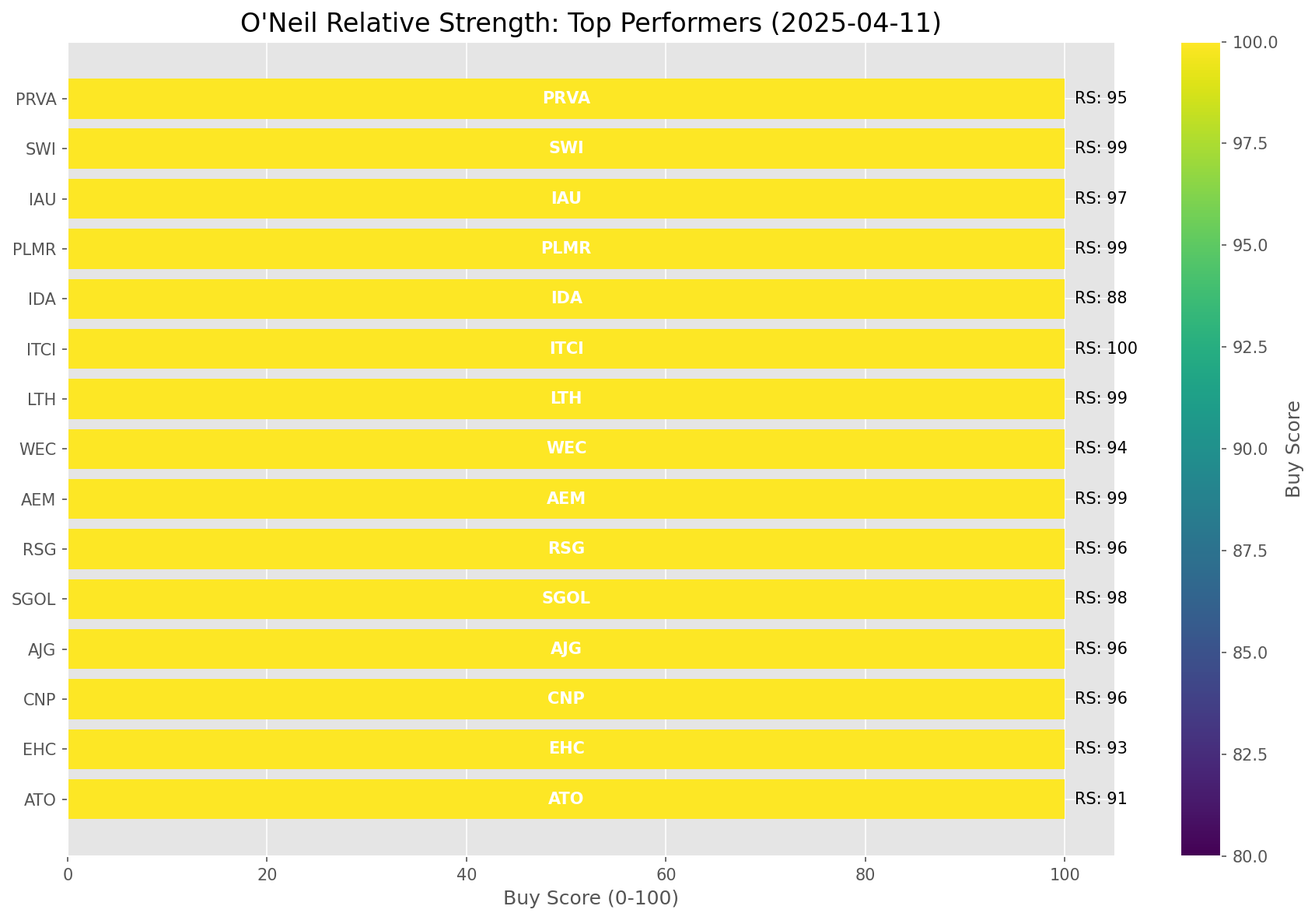
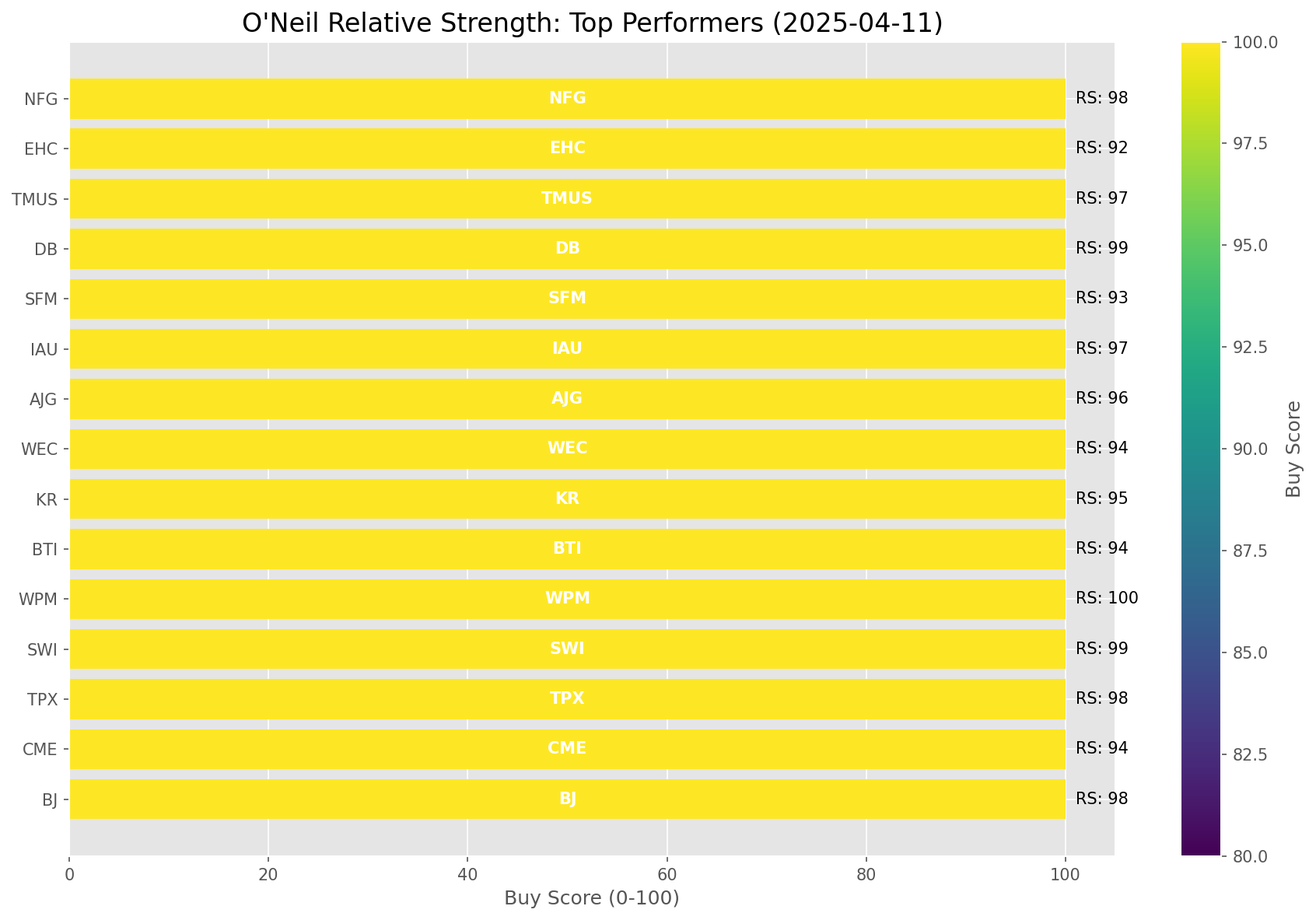
Add market report for 2025-04-11

diff --git a/oneil_relative_strength_report_2025-04-11.md b/oneil_relative_strength_report_2025-04-11.md
@@ -9,11 +9,11 @@
 | Metric | Value |
 |--------|-------|
 | **Market Valuation** | **Significantly Undervalued** |
-| **Current Ratio** | 8.80 |
+| **Current Ratio** | 8.81 |
 | **Historical Mean** | 9.69 |
 | **Standard Deviation** | 0.44 |
 | **Z-Score (StdDev from Mean)** | -2.33 |
-| **Total Market Cap** | $261.58 trillion |
+| **Total Market Cap** | $261.74 trillion |
 | **GDP** | $29.72 trillion |
 
 ## **Market Insights**
@@ -49,41 +49,41 @@ Based on William O'Neil's Relative Strength Methodology
 
 | ETF | Strength | RS Rating | Performance | Above Key MAs | Trend | Sector |
 |-----|----------|-----------|-------------|--------------|-------|--------|
-| [GLD](https://www.tradingview.com/chart/?symbol=GLD) | 98.5 | 97.0 | 21.08% | 10d ✓, 50d ✓, 200d ✓ | ↗ | Gold |
-| [SLV](https://www.tradingview.com/chart/?symbol=SLV) | 84.6 | 89.0 | 6.99% | 10d ✓, 50d ✗, 200d ✓ | ↗ | Silver |
-| [XLP](https://www.tradingview.com/chart/?symbol=XLP) | 82.6 | 85.0 | 3.98% | 10d ✓, 50d ✗, 200d ✓ | ↗ | Consumer Staples |
-| [DBA](https://www.tradingview.com/chart/?symbol=DBA) | 77.1 | 74.0 | -0.75% | 10d ✓, 50d ✗, 200d ✓ | ↗ | Agriculture |
-| [CIBR](https://www.tradingview.com/chart/?symbol=CIBR) | 75.1 | 70.0 | -2.60% | 10d ✓, 50d ✗, 200d ✓ | ↗ | Cybersecurity |
-| [KWEB](https://www.tradingview.com/chart/?symbol=KWEB) | 65.0 | 90.0 | 8.19% | 10d ✗, 50d ✗, 200d ✗ | ↗ | Chinese Internet |
-| [IYZ](https://www.tradingview.com/chart/?symbol=IYZ) | 63.7 | 67.0 | -3.94% | 10d ✗, 50d ✗, 200d ✓ | ↗ | Telecommunications |
-| [XLI](https://www.tradingview.com/chart/?symbol=XLI) | 60.9 | 62.0 | -5.35% | 10d ✓, 50d ✗, 200d ✗ | ↗ | Industrial |
-| [XLU](https://www.tradingview.com/chart/?symbol=XLU) | 59.5 | 79.0 | 0.55% | 10d ✗, 50d ✗, 200d ✗ | ↗ | Utilities |
-| [PAVE](https://www.tradingview.com/chart/?symbol=PAVE) | 53.9 | 48.0 | -10.51% | 10d ✓, 50d ✗, 200d ✗ | ↗ | Infrastructure |
-| [IYR](https://www.tradingview.com/chart/?symbol=IYR) | 53.5 | 67.0 | -3.54% | 10d ✗, 50d ✗, 200d ✗ | ↗ | Real Estate |
-| [XLF](https://www.tradingview.com/chart/?symbol=XLF) | 53.5 | 67.0 | -3.61% | 10d ✗, 50d ✗, 200d ✗ | ↗ | Financial |
-| [XLC](https://www.tradingview.com/chart/?symbol=XLC) | 50.5 | 61.0 | -6.07% | 10d ✗, 50d ✗, 200d ✗ | ↗ | Communications |
-| [ARKF](https://www.tradingview.com/chart/?symbol=ARKF) | 49.4 | 39.0 | -14.42% | 10d ✓, 50d ✗, 200d ✗ | ↗ | Fintech Innovation |
-| [UUP](https://www.tradingview.com/chart/?symbol=UUP) | 48.5 | 57.0 | -7.24% | 10d ✗, 50d ✗, 200d ✗ | ↗ | U.S. Dollar |
-| [BIL](https://www.tradingview.com/chart/?symbol=BIL) | 48.4 | 77.0 | 0.04% | 10d ✓, 50d ✗, 200d ✗ | ↘ | Short-term Treasuries |
-| [XLK](https://www.tradingview.com/chart/?symbol=XLK) | 48.4 | 37.0 | -15.21% | 10d ✓, 50d ✗, 200d ✗ | ↗ | Technology |
-| [BLOK](https://www.tradingview.com/chart/?symbol=BLOK) | 44.9 | 30.0 | -18.42% | 10d ✓, 50d ✗, 200d ✗ | ↗ | Blockchain & Cryptocurrency |
-| [ICLN](https://www.tradingview.com/chart/?symbol=ICLN) | 44.9 | 70.0 | -2.39% | 10d ✓, 50d ✗, 200d ✗ | ↘ | Clean Energy |
-| [ARKW](https://www.tradingview.com/chart/?symbol=ARKW) | 42.9 | 26.0 | -20.39% | 10d ✓, 50d ✗, 200d ✗ | ↗ | Next Generation Internet |
-| [AIQ](https://www.tradingview.com/chart/?symbol=AIQ) | 42.5 | 45.0 | -11.61% | 10d ✗, 50d ✗, 200d ✗ | ↗ | Artificial Intelligence & Technology |
-| [ARKK](https://www.tradingview.com/chart/?symbol=ARKK) | 40.4 | 21.0 | -22.60% | 10d ✓, 50d ✗, 200d ✗ | ↗ | Innovation |
-| [TLT](https://www.tradingview.com/chart/?symbol=TLT) | 40.0 | 80.0 | 0.84% | 10d ✗, 50d ✗, 200d ✗ | ↘ | Long-term Treasuries |
+| [GLD](https://www.tradingview.com/chart/?symbol=GLD) | 98.5 | 97.0 | 21.18% | 10d ✓, 50d ✓, 200d ✓ | ↗ | Gold |
+| [SLV](https://www.tradingview.com/chart/?symbol=SLV) | 84.1 | 88.0 | 6.53% | 10d ✓, 50d ✗, 200d ✓ | ↗ | Silver |
+| [XLP](https://www.tradingview.com/chart/?symbol=XLP) | 82.6 | 85.0 | 3.84% | 10d ✓, 50d ✗, 200d ✓ | ↗ | Consumer Staples |
+| [DBA](https://www.tradingview.com/chart/?symbol=DBA) | 77.1 | 74.0 | -0.72% | 10d ✓, 50d ✗, 200d ✓ | ↗ | Agriculture |
+| [CIBR](https://www.tradingview.com/chart/?symbol=CIBR) | 75.1 | 70.0 | -2.49% | 10d ✓, 50d ✗, 200d ✓ | ↗ | Cybersecurity |
+| [KWEB](https://www.tradingview.com/chart/?symbol=KWEB) | 65.0 | 90.0 | 8.26% | 10d ✗, 50d ✗, 200d ✗ | ↗ | Chinese Internet |
+| [IYZ](https://www.tradingview.com/chart/?symbol=IYZ) | 63.2 | 66.0 | -4.12% | 10d ✗, 50d ✗, 200d ✓ | ↗ | Telecommunications |
+| [XLI](https://www.tradingview.com/chart/?symbol=XLI) | 60.9 | 62.0 | -5.38% | 10d ✓, 50d ✗, 200d ✗ | ↗ | Industrial |
+| [XLU](https://www.tradingview.com/chart/?symbol=XLU) | 59.0 | 78.0 | 0.41% | 10d ✗, 50d ✗, 200d ✗ | ↗ | Utilities |
+| [IYR](https://www.tradingview.com/chart/?symbol=IYR) | 54.0 | 68.0 | -3.40% | 10d ✗, 50d ✗, 200d ✗ | ↗ | Real Estate |
+| [PAVE](https://www.tradingview.com/chart/?symbol=PAVE) | 53.9 | 48.0 | -10.56% | 10d ✓, 50d ✗, 200d ✗ | ↗ | Infrastructure |
+| [XLF](https://www.tradingview.com/chart/?symbol=XLF) | 53.5 | 67.0 | -3.75% | 10d ✗, 50d ✗, 200d ✗ | ↗ | Financial |
+| [XLC](https://www.tradingview.com/chart/?symbol=XLC) | 50.0 | 60.0 | -6.16% | 10d ✗, 50d ✗, 200d ✗ | ↗ | Communications |
+| [ARKF](https://www.tradingview.com/chart/?symbol=ARKF) | 49.4 | 39.0 | -14.34% | 10d ✓, 50d ✗, 200d ✗ | ↗ | Fintech Innovation |
+| [UUP](https://www.tradingview.com/chart/?symbol=UUP) | 48.5 | 57.0 | -7.29% | 10d ✗, 50d ✗, 200d ✗ | ↗ | U.S. Dollar |
+| [XLK](https://www.tradingview.com/chart/?symbol=XLK) | 48.4 | 37.0 | -15.19% | 10d ✓, 50d ✗, 200d ✗ | ↗ | Technology |
+| [BIL](https://www.tradingview.com/chart/?symbol=BIL) | 48.4 | 77.0 | 0.05% | 10d ✓, 50d ✗, 200d ✗ | ↘ | Short-term Treasuries |
+| [ICLN](https://www.tradingview.com/chart/?symbol=ICLN) | 45.4 | 71.0 | -2.08% | 10d ✓, 50d ✗, 200d ✗ | ↘ | Clean Energy |
+| [BLOK](https://www.tradingview.com/chart/?symbol=BLOK) | 44.9 | 30.0 | -18.28% | 10d ✓, 50d ✗, 200d ✗ | ↗ | Blockchain & Cryptocurrency |
+| [AIQ](https://www.tradingview.com/chart/?symbol=AIQ) | 43.0 | 46.0 | -11.49% | 10d ✗, 50d ✗, 200d ✗ | ↗ | Artificial Intelligence & Technology |
+| [ARKW](https://www.tradingview.com/chart/?symbol=ARKW) | 42.9 | 26.0 | -20.30% | 10d ✓, 50d ✗, 200d ✗ | ↗ | Next Generation Internet |
+| [ARKK](https://www.tradingview.com/chart/?symbol=ARKK) | 40.9 | 22.0 | -22.15% | 10d ✓, 50d ✗, 200d ✗ | ↗ | Innovation |
+| [TLT](https://www.tradingview.com/chart/?symbol=TLT) | 40.0 | 80.0 | 1.00% | 10d ✗, 50d ✗, 200d ✗ | ↘ | Long-term Treasuries |
 | [IYT](https://www.tradingview.com/chart/?symbol=IYT) | 39.0 | 38.0 | -14.51% | 10d ✗, 50d ✗, 200d ✗ | ↗ | Transportation |
-| [XLY](https://www.tradingview.com/chart/?symbol=XLY) | 38.5 | 37.0 | -15.11% | 10d ✗, 50d ✗, 200d ✗ | ↗ | Consumer Discretionary |
-| [XLV](https://www.tradingview.com/chart/?symbol=XLV) | 35.0 | 70.0 | -2.31% | 10d ✗, 50d ✗, 200d ✗ | ↘ | Healthcare |
-| [DBC](https://www.tradingview.com/chart/?symbol=DBC) | 34.5 | 69.0 | -2.90% | 10d ✗, 50d ✗, 200d ✗ | ↘ | Commodities |
-| [XLB](https://www.tradingview.com/chart/?symbol=XLB) | 33.0 | 66.0 | -4.02% | 10d ✗, 50d ✗, 200d ✗ | ↘ | Materials |
-| [JETS](https://www.tradingview.com/chart/?symbol=JETS) | 28.5 | 17.0 | -26.43% | 10d ✗, 50d ✗, 200d ✗ | ↗ | Airlines |
-| [XLE](https://www.tradingview.com/chart/?symbol=XLE) | 25.0 | 50.0 | -9.91% | 10d ✗, 50d ✗, 200d ✗ | ↘ | Energy |
-| [URA](https://www.tradingview.com/chart/?symbol=URA) | 24.9 | 30.0 | -18.43% | 10d ✓, 50d ✗, 200d ✗ | ↘ | Uranium |
-| [ARKG](https://www.tradingview.com/chart/?symbol=ARKG) | 24.4 | 29.0 | -18.91% | 10d ✓, 50d ✗, 200d ✗ | ↘ | Genomics |
-| [IBB](https://www.tradingview.com/chart/?symbol=IBB) | 20.5 | 41.0 | -13.33% | 10d ✗, 50d ✗, 200d ✗ | ↘ | Biotechnology |
-| [ITB](https://www.tradingview.com/chart/?symbol=ITB) | 20.0 | 40.0 | -13.59% | 10d ✗, 50d ✗, 200d ✗ | ↘ | Home Construction |
-| [SOXX](https://www.tradingview.com/chart/?symbol=SOXX) | 10.5 | 21.0 | -22.90% | 10d ✗, 50d ✗, 200d ✗ | ↘ | Semiconductors |
+| [XLY](https://www.tradingview.com/chart/?symbol=XLY) | 38.5 | 37.0 | -14.93% | 10d ✗, 50d ✗, 200d ✗ | ↗ | Consumer Discretionary |
+| [XLV](https://www.tradingview.com/chart/?symbol=XLV) | 35.0 | 70.0 | -2.54% | 10d ✗, 50d ✗, 200d ✗ | ↘ | Healthcare |
+| [DBC](https://www.tradingview.com/chart/?symbol=DBC) | 34.5 | 69.0 | -3.01% | 10d ✗, 50d ✗, 200d ✗ | ↘ | Commodities |
+| [XLB](https://www.tradingview.com/chart/?symbol=XLB) | 32.5 | 65.0 | -4.35% | 10d ✗, 50d ✗, 200d ✗ | ↘ | Materials |
+| [JETS](https://www.tradingview.com/chart/?symbol=JETS) | 28.5 | 17.0 | -25.92% | 10d ✗, 50d ✗, 200d ✗ | ↗ | Airlines |
+| [ARKG](https://www.tradingview.com/chart/?symbol=ARKG) | 25.4 | 31.0 | -17.76% | 10d ✓, 50d ✗, 200d ✗ | ↘ | Genomics |
+| [XLE](https://www.tradingview.com/chart/?symbol=XLE) | 24.5 | 49.0 | -10.38% | 10d ✗, 50d ✗, 200d ✗ | ↘ | Energy |
+| [URA](https://www.tradingview.com/chart/?symbol=URA) | 24.4 | 29.0 | -18.64% | 10d ✓, 50d ✗, 200d ✗ | ↘ | Uranium |
+| [IBB](https://www.tradingview.com/chart/?symbol=IBB) | 20.5 | 41.0 | -13.25% | 10d ✗, 50d ✗, 200d ✗ | ↘ | Biotechnology |
+| [ITB](https://www.tradingview.com/chart/?symbol=ITB) | 20.5 | 41.0 | -13.17% | 10d ✗, 50d ✗, 200d ✗ | ↘ | Home Construction |
+| [SOXX](https://www.tradingview.com/chart/?symbol=SOXX) | 10.5 | 21.0 | -22.94% | 10d ✗, 50d ✗, 200d ✗ | ↘ | Semiconductors |
 
 ### **Sector ETF Performance Interpretation**
 
@@ -100,7 +100,7 @@ This table shows the relative strength metrics for different market sectors base
 
 The current market leadership is coming from the following sectors: **Gold, Silver, Consumer Staples**.
 
-The **Gold** sector (represented by **GLD**) is showing particularly strong relative strength with an RS rating of 97.0 and performance of 21.08% vs. the S&P 500. This sector is trading above its 10-day, 50-day, 200-day moving average(s). Investors should consider focusing on high RS stocks within these leading sectors for potential outperformance.
+The **Gold** sector (represented by **GLD**) is showing particularly strong relative strength with an RS rating of 97.0 and performance of 21.18% vs. the S&P 500. This sector is trading above its 10-day, 50-day, 200-day moving average(s). Investors should consider focusing on high RS stocks within these leading sectors for potential outperformance.
 
 ---
 
@@ -110,138 +110,134 @@ The following 75 stocks show exceptional relative strength:
 
 | RS Rating | Buy Score | Current Price | Chart | Name | Ticker |
 |-----------|-----------|---------------|-------|------|--------|
-| 100 | 100 | $82.82 | [Chart](https://www.tradingview.com/chart/?symbol=WPM) | Wheaton Precious Metals Corp. Common Stock | WPM |
-| 100 | 100 | $29.37 | [Chart](https://www.tradingview.com/chart/?symbol=AGI) | Alamos Gold Inc. Class A Common Shares | AGI |
-| 99 | 100 | $118.07 | [Chart](https://www.tradingview.com/chart/?symbol=AEM) | Agnico Eagle Mines Ltd. | AEM |
-| 99 | 100 | $31.05 | [Chart](https://www.tradingview.com/chart/?symbol=LTH) | Life Time Group Holdings, Inc. | LTH |
-| 99 | 100 | $146.89 | [Chart](https://www.tradingview.com/chart/?symbol=PLMR) | Palomar Holdings, Inc. Common stock | PLMR |
+| 100 | 100 | $82.13 | [Chart](https://www.tradingview.com/chart/?symbol=WPM) | Wheaton Precious Metals Corp. Common Stock | WPM |
+| 100 | 100 | $147.88 | [Chart](https://www.tradingview.com/chart/?symbol=PLMR) | Palomar Holdings, Inc. Common stock | PLMR |
+| 100 | 100 | $29.22 | [Chart](https://www.tradingview.com/chart/?symbol=AGI) | Alamos Gold Inc. Class A Common Shares | AGI |
 | 99 | 100 | $18.48 | [Chart](https://www.tradingview.com/chart/?symbol=SWI) | SolarWinds Corporation Common Stock | SWI |
+| 99 | 100 | $22.42 | [Chart](https://www.tradingview.com/chart/?symbol=DB) | Deutsche Bank Aktiengesellschaft | DB |
+| 99 | 100 | $117.65 | [Chart](https://www.tradingview.com/chart/?symbol=AEM) | Agnico Eagle Mines Ltd. | AEM |
+| 99 | 100 | $31.23 | [Chart](https://www.tradingview.com/chart/?symbol=LTH) | Life Time Group Holdings, Inc. | LTH |
+| 99 | 100 | $61.22 | [Chart](https://www.tradingview.com/chart/?symbol=GDXJ) | VanEck Junior Gold Miners ETF | GDXJ |
 | 99 | 100 | $135.87 | [Chart](https://www.tradingview.com/chart/?symbol=UGL) | ProShares Ultra Gold | UGL |
-| 99 | 100 | $61.43 | [Chart](https://www.tradingview.com/chart/?symbol=GDXJ) | VanEck Junior Gold Miners ETF | GDXJ |
-| 99 | 100 | $22.39 | [Chart](https://www.tradingview.com/chart/?symbol=DB) | Deutsche Bank Aktiengesellschaft | DB |
-| 99 | 100 | $180.90 | [Chart](https://www.tradingview.com/chart/?symbol=RGLD) | Royal Gold Inc | RGLD |
-| 99 | 100 | $15.63 | [Chart](https://www.tradingview.com/chart/?symbol=EZPW) | Ezcorp Inc | EZPW |
-| 98 | 100 | $30.80 | [Chart](https://www.tradingview.com/chart/?symbol=SGOL) | abrdn Physical Gold Shares ETF | SGOL |
-| 98 | 100 | $32.20 | [Chart](https://www.tradingview.com/chart/?symbol=IAUM) | iShares Gold Trust Micro | IAUM |
-| 98 | 100 | $63.95 | [Chart](https://www.tradingview.com/chart/?symbol=GLDM) | SPDR Gold MiniShares | GLDM |
-| 98 | 100 | $116.70 | [Chart](https://www.tradingview.com/chart/?symbol=BJ) | BJs Wholesale Club Holdings, Inc. Common Stock | BJ |
-| 98 | 100 | $76.77 | [Chart](https://www.tradingview.com/chart/?symbol=NFG) | National Fuel Gas Co. | NFG |
-| 98 | 100 | $22.50 | [Chart](https://www.tradingview.com/chart/?symbol=SRAD) | Sportradar Group AG Class A Ordinary Shares | SRAD |
-| 97 | 100 | $60.91 | [Chart](https://www.tradingview.com/chart/?symbol=IAU) | iShares Gold Trust | IAU |
-| 97 | 100 | $31.86 | [Chart](https://www.tradingview.com/chart/?symbol=BAR) | GraniteShares Gold Shares | BAR |
-| 97 | 100 | $297.68 | [Chart](https://www.tradingview.com/chart/?symbol=GLD) | SPDR Gold Trust, SPDR Gold Shares | GLD |
-| 97 | 100 | $31.14 | [Chart](https://www.tradingview.com/chart/?symbol=OUNZ) | VanEck Merk Gold ETF | OUNZ |
+| 99 | 100 | $15.66 | [Chart](https://www.tradingview.com/chart/?symbol=EZPW) | Ezcorp Inc | EZPW |
+| 99 | 100 | $179.58 | [Chart](https://www.tradingview.com/chart/?symbol=RGLD) | Royal Gold Inc | RGLD |
+| 98 | 100 | $117.36 | [Chart](https://www.tradingview.com/chart/?symbol=BJ) | BJs Wholesale Club Holdings, Inc. Common Stock | BJ |
+| 98 | 100 | $76.46 | [Chart](https://www.tradingview.com/chart/?symbol=NFG) | National Fuel Gas Co. | NFG |
+| 98 | 100 | $24.82 | [Chart](https://www.tradingview.com/chart/?symbol=PHYS) | Sprott Physical Gold Trust | PHYS |
+| 98 | 100 | $32.23 | [Chart](https://www.tradingview.com/chart/?symbol=IAUM) | iShares Gold Trust Micro | IAUM |
+| 98 | 100 | $64.01 | [Chart](https://www.tradingview.com/chart/?symbol=GLDM) | SPDR Gold MiniShares | GLDM |
+| 98 | 100 | $22.57 | [Chart](https://www.tradingview.com/chart/?symbol=SRAD) | Sportradar Group AG Class A Ordinary Shares | SRAD |
+| 97 | 100 | $60.96 | [Chart](https://www.tradingview.com/chart/?symbol=IAU) | iShares Gold Trust | IAU |
+| 97 | 100 | $258.67 | [Chart](https://www.tradingview.com/chart/?symbol=TMUS) | T-Mobile US, Inc. | TMUS |
+| 97 | 100 | $30.82 | [Chart](https://www.tradingview.com/chart/?symbol=SGOL) | abrdn Physical Gold Shares ETF | SGOL |
+| 97 | 100 | $297.93 | [Chart](https://www.tradingview.com/chart/?symbol=GLD) | SPDR Gold Trust, SPDR Gold Shares | GLD |
+| 97 | 100 | $31.87 | [Chart](https://www.tradingview.com/chart/?symbol=BAR) | GraniteShares Gold Shares | BAR |
 | 97 | 100 | $22.40 | [Chart](https://www.tradingview.com/chart/?symbol=OR) | Osisko Gold Royalties Ltd | OR |
-| 97 | 100 | $45.98 | [Chart](https://www.tradingview.com/chart/?symbol=EXC) | Exelon Corporation | EXC |
-| 97 | 100 | $24.79 | [Chart](https://www.tradingview.com/chart/?symbol=PHYS) | Sprott Physical Gold Trust | PHYS |
-| 97 | 100 | $72.80 | [Chart](https://www.tradingview.com/chart/?symbol=RYAN) | Ryan Specialty Holdings, Inc. | RYAN |
-| 97 | 100 | $259.00 | [Chart](https://www.tradingview.com/chart/?symbol=TMUS) | T-Mobile US, Inc. | TMUS |
-| 96 | 100 | $36.47 | [Chart](https://www.tradingview.com/chart/?symbol=CNP) | CenterPoint Energy, Inc. | CNP |
-| 96 | 100 | $333.91 | [Chart](https://www.tradingview.com/chart/?symbol=AJG) | Arthur J. Gallagher & Co. | AJG |
-| 96 | 100 | $243.07 | [Chart](https://www.tradingview.com/chart/?symbol=RSG) | Republic Services Inc. | RSG |
-| 95 | 100 | $24.07 | [Chart](https://www.tradingview.com/chart/?symbol=PRVA) | Privia Health Group, Inc. Common Stock | PRVA |
-| 95 | 100 | $52.89 | [Chart](https://www.tradingview.com/chart/?symbol=PPC) | Pilgrims Pride Corporation | PPC |
-| 95 | 100 | $27.43 | [Chart](https://www.tradingview.com/chart/?symbol=EUFN) | iShares MSCI Europe Financials ETF | EUFN |
-| 95 | 100 | $28.64 | [Chart](https://www.tradingview.com/chart/?symbol=CEF) | Sprott Physical Gold and Silver Trust | CEF |
-| 95 | 100 | $68.29 | [Chart](https://www.tradingview.com/chart/?symbol=KR) | The Kroger Co. | KR |
-| 95 | 100 | $455.80 | [Chart](https://www.tradingview.com/chart/?symbol=CASY) | Casey's General Stores Inc | CASY |
-| 95 | 100 | $523.93 | [Chart](https://www.tradingview.com/chart/?symbol=BRK.B) | BERKSHIRE HATHAWAY Class B | BRK.B |
-| 95 | 100 | $37.83 | [Chart](https://www.tradingview.com/chart/?symbol=MRX) | Marex Group plc Ordinary Shares | MRX |
-| 94 | 100 | $107.23 | [Chart](https://www.tradingview.com/chart/?symbol=WEC) | WEC Energy Group, Inc. | WEC |
-| 94 | 100 | $41.55 | [Chart](https://www.tradingview.com/chart/?symbol=BTI) | British American Tobacco p.l.c. American Depositary Shares, American Depositary Shares, each representing one Ordinary Share | BTI |
-| 94 | 100 | $56.30 | [Chart](https://www.tradingview.com/chart/?symbol=ULS) | UL Solutions Inc. | ULS |
-| 94 | 100 | $33.21 | [Chart](https://www.tradingview.com/chart/?symbol=KTOS) | Kratos Defense & Security Solutions, Inc. | KTOS |
-| 94 | 100 | $274.51 | [Chart](https://www.tradingview.com/chart/?symbol=PGR) | Progressive Corporation | PGR |
-| 94 | 100 | $263.06 | [Chart](https://www.tradingview.com/chart/?symbol=CME) | CME Group Inc. | CME |
-| 94 | 100 | $210.60 | [Chart](https://www.tradingview.com/chart/?symbol=TTWO) | Take-Two Interactive Software Inc | TTWO |
-| 94 | 100 | $52.18 | [Chart](https://www.tradingview.com/chart/?symbol=SKWD) | Skyward Specialty Insurance Group, Inc. Common Stock | SKWD |
-| 94 | 100 | $86.90 | [Chart](https://www.tradingview.com/chart/?symbol=CCEP) | Coca-Cola Europacific Partners plc Ordinary Shares | CCEP |
-| 93 | 100 | $103.18 | [Chart](https://www.tradingview.com/chart/?symbol=EHC) | Encompass Health Corporation Common Stock | EHC |
-| 93 | 100 | $156.10 | [Chart](https://www.tradingview.com/chart/?symbol=SFM) | Sprouts Farmers Market, Inc. | SFM |
-| 92 | 100 | $104.14 | [Chart](https://www.tradingview.com/chart/?symbol=ATGE) | Adtalem Global Education Inc. Common Shares | ATGE |
-| 92 | 100 | $194.50 | [Chart](https://www.tradingview.com/chart/?symbol=WCN) | Waste Connections, Inc. | WCN |
-| 92 | 100 | $80.60 | [Chart](https://www.tradingview.com/chart/?symbol=FAST) | Fastenal Co | FAST |
-| 91 | 100 | $151.84 | [Chart](https://www.tradingview.com/chart/?symbol=ATO) | Atmos Energy Corporation | ATO |
-| 91 | 100 | $74.53 | [Chart](https://www.tradingview.com/chart/?symbol=OGS) | ONE GAS, INC. | OGS |
-| 91 | 100 | $113.89 | [Chart](https://www.tradingview.com/chart/?symbol=OLLI) | Ollie's Bargain Outlet Holdings, Inc. Common Stock | OLLI |
-| 90 | 100 | $48.12 | [Chart](https://www.tradingview.com/chart/?symbol=GFL) | GFL Environmental Inc. Subordinate Voting Shares | GFL |
-| 90 | 100 | $214.99 | [Chart](https://www.tradingview.com/chart/?symbol=PAYC) | PAYCOM SOFTWARE, INC. | PAYC |
-| 90 | 100 | $132.43 | [Chart](https://www.tradingview.com/chart/?symbol=CAH) | Cardinal Health, Inc. | CAH |
-| 90 | 100 | $75.14 | [Chart](https://www.tradingview.com/chart/?symbol=ADC) | Agree Realty Corporation | ADC |
-| 90 | 100 | $309.40 | [Chart](https://www.tradingview.com/chart/?symbol=MCD) | McDonald's Corporation | MCD |
-| 89 | 100 | $275.44 | [Chart](https://www.tradingview.com/chart/?symbol=PEN) | Penumbra, Inc. | PEN |
-| 89 | 100 | $114.60 | [Chart](https://www.tradingview.com/chart/?symbol=CWST) | Casella Waste Systems Inc | CWST |
-| 88 | 100 | $117.62 | [Chart](https://www.tradingview.com/chart/?symbol=IDA) | IDACORP, Inc. | IDA |
-| 88 | 100 | $46.58 | [Chart](https://www.tradingview.com/chart/?symbol=MRCY) | Mercury Systems Inc. | MRCY |
-| 87 | 98 | $49.49 | [Chart](https://www.tradingview.com/chart/?symbol=RELX) | RELX PLC | RELX |
-| 86 | 98 | $34.96 | [Chart](https://www.tradingview.com/chart/?symbol=DRS) | Leonardo DRS, Inc. Common Stock | DRS |
-| 85 | 98 | $18.05 | [Chart](https://www.tradingview.com/chart/?symbol=GRND) | Grindr Inc. | GRND |
-| 87 | 97 | $127.97 | [Chart](https://www.tradingview.com/chart/?symbol=TJX) | TJX Companies, Inc. (The) | TJX |
-| 85 | 96 | $292.37 | [Chart](https://www.tradingview.com/chart/?symbol=VRSK) | Verisk Analytics, Inc. Common Stock | VRSK |
-| 85 | 96 | $75.44 | [Chart](https://www.tradingview.com/chart/?symbol=BRBR) | BellRing Brands, Inc. | BRBR |
-| 84 | 94 | $59.75 | [Chart](https://www.tradingview.com/chart/?symbol=RYTM) | Rhythm Pharmaceuticals, Inc. Common Stock | RYTM |
+| 97 | 100 | $31.15 | [Chart](https://www.tradingview.com/chart/?symbol=OUNZ) | VanEck Merk Gold ETF | OUNZ |
+| 97 | 100 | $46.00 | [Chart](https://www.tradingview.com/chart/?symbol=EXC) | Exelon Corporation | EXC |
+| 96 | 100 | $334.02 | [Chart](https://www.tradingview.com/chart/?symbol=AJG) | Arthur J. Gallagher & Co. | AJG |
+| 96 | 100 | $243.92 | [Chart](https://www.tradingview.com/chart/?symbol=RSG) | Republic Services Inc. | RSG |
+| 96 | 100 | $123.15 | [Chart](https://www.tradingview.com/chart/?symbol=BECN) | Beacon Roofing Supply, Inc. | BECN |
+| 96 | 100 | $36.58 | [Chart](https://www.tradingview.com/chart/?symbol=CNP) | CenterPoint Energy, Inc. | CNP |
+| 96 | 100 | $457.25 | [Chart](https://www.tradingview.com/chart/?symbol=CASY) | Casey's General Stores Inc | CASY |
+| 96 | 100 | $68.45 | [Chart](https://www.tradingview.com/chart/?symbol=WRB) | W.R. Berkley Corporation | WRB |
+| 96 | 100 | $72.81 | [Chart](https://www.tradingview.com/chart/?symbol=RYAN) | Ryan Specialty Holdings, Inc. | RYAN |
+| 95 | 100 | $68.22 | [Chart](https://www.tradingview.com/chart/?symbol=KR) | The Kroger Co. | KR |
+| 95 | 100 | $24.10 | [Chart](https://www.tradingview.com/chart/?symbol=PRVA) | Privia Health Group, Inc. Common Stock | PRVA |
+| 95 | 100 | $52.53 | [Chart](https://www.tradingview.com/chart/?symbol=SKWD) | Skyward Specialty Insurance Group, Inc. Common Stock | SKWD |
+| 95 | 100 | $212.07 | [Chart](https://www.tradingview.com/chart/?symbol=TTWO) | Take-Two Interactive Software Inc | TTWO |
+| 95 | 100 | $28.62 | [Chart](https://www.tradingview.com/chart/?symbol=CEF) | Sprott Physical Gold and Silver Trust | CEF |
+| 95 | 100 | $1389.79 | [Chart](https://www.tradingview.com/chart/?symbol=ORLY) | O'Reilly Automotive, Inc. | ORLY |
+| 95 | 100 | $524.11 | [Chart](https://www.tradingview.com/chart/?symbol=BRK.B) | BERKSHIRE HATHAWAY Class B | BRK.B |
+| 95 | 100 | $37.42 | [Chart](https://www.tradingview.com/chart/?symbol=MRX) | Marex Group plc Ordinary Shares | MRX |
+| 94 | 100 | $261.54 | [Chart](https://www.tradingview.com/chart/?symbol=CME) | CME Group Inc. | CME |
+| 94 | 100 | $41.57 | [Chart](https://www.tradingview.com/chart/?symbol=BTI) | British American Tobacco p.l.c. American Depositary Shares, American Depositary Shares, each representing one Ordinary Share | BTI |
+| 94 | 100 | $106.96 | [Chart](https://www.tradingview.com/chart/?symbol=WEC) | WEC Energy Group, Inc. | WEC |
+| 94 | 100 | $52.81 | [Chart](https://www.tradingview.com/chart/?symbol=PPC) | Pilgrims Pride Corporation | PPC |
+| 94 | 100 | $33.24 | [Chart](https://www.tradingview.com/chart/?symbol=KTOS) | Kratos Defense & Security Solutions, Inc. | KTOS |
+| 94 | 100 | $275.64 | [Chart](https://www.tradingview.com/chart/?symbol=PGR) | Progressive Corporation | PGR |
+| 94 | 100 | $86.60 | [Chart](https://www.tradingview.com/chart/?symbol=CCEP) | Coca-Cola Europacific Partners plc Ordinary Shares | CCEP |
+| 94 | 100 | $56.46 | [Chart](https://www.tradingview.com/chart/?symbol=ULS) | UL Solutions Inc. | ULS |
+| 93 | 100 | $157.27 | [Chart](https://www.tradingview.com/chart/?symbol=SFM) | Sprouts Farmers Market, Inc. | SFM |
+| 92 | 100 | $102.17 | [Chart](https://www.tradingview.com/chart/?symbol=EHC) | Encompass Health Corporation Common Stock | EHC |
+| 92 | 100 | $80.64 | [Chart](https://www.tradingview.com/chart/?symbol=FAST) | Fastenal Co | FAST |
+| 92 | 100 | $103.78 | [Chart](https://www.tradingview.com/chart/?symbol=ATGE) | Adtalem Global Education Inc. Common Shares | ATGE |
+| 92 | 100 | $194.70 | [Chart](https://www.tradingview.com/chart/?symbol=WCN) | Waste Connections, Inc. | WCN |
+| 91 | 100 | $114.42 | [Chart](https://www.tradingview.com/chart/?symbol=OLLI) | Ollie's Bargain Outlet Holdings, Inc. Common Stock | OLLI |
+| 91 | 100 | $75.00 | [Chart](https://www.tradingview.com/chart/?symbol=OGS) | ONE GAS, INC. | OGS |
+| 90 | 100 | $151.48 | [Chart](https://www.tradingview.com/chart/?symbol=ATO) | Atmos Energy Corporation | ATO |
+| 90 | 100 | $309.90 | [Chart](https://www.tradingview.com/chart/?symbol=MCD) | McDonald's Corporation | MCD |
+| 90 | 100 | $74.91 | [Chart](https://www.tradingview.com/chart/?symbol=ADC) | Agree Realty Corporation | ADC |
+| 90 | 100 | $48.25 | [Chart](https://www.tradingview.com/chart/?symbol=GFL) | GFL Environmental Inc. Subordinate Voting Shares | GFL |
+| 90 | 100 | $215.72 | [Chart](https://www.tradingview.com/chart/?symbol=PAYC) | PAYCOM SOFTWARE, INC. | PAYC |
+| 89 | 100 | $115.08 | [Chart](https://www.tradingview.com/chart/?symbol=CWST) | Casella Waste Systems Inc | CWST |
+| 88 | 100 | $117.38 | [Chart](https://www.tradingview.com/chart/?symbol=IDA) | IDACORP, Inc. | IDA |
+| 87 | 99 | $35.10 | [Chart](https://www.tradingview.com/chart/?symbol=DRS) | Leonardo DRS, Inc. Common Stock | DRS |
+| 87 | 99 | $46.18 | [Chart](https://www.tradingview.com/chart/?symbol=MRCY) | Mercury Systems Inc. | MRCY |
+| 86 | 99 | $18.09 | [Chart](https://www.tradingview.com/chart/?symbol=GRND) | Grindr Inc. | GRND |
+| 87 | 97 | $128.15 | [Chart](https://www.tradingview.com/chart/?symbol=TJX) | TJX Companies, Inc. (The) | TJX |
+| 85 | 96 | $75.59 | [Chart](https://www.tradingview.com/chart/?symbol=BRBR) | BellRing Brands, Inc. | BRBR |
+| 84 | 94 | $106.83 | [Chart](https://www.tradingview.com/chart/?symbol=AFL) | Aflac Inc. | AFL |
 | 82 | 94 | $22.48 | [Chart](https://www.tradingview.com/chart/?symbol=ATSG) | Air Transport Services Group, Inc. | ATSG |
-| 81 | 94 | $111.64 | [Chart](https://www.tradingview.com/chart/?symbol=BOXX) | Alpha Architect 1-3 Month Box ETF | BOXX |
+| 81 | 94 | $111.67 | [Chart](https://www.tradingview.com/chart/?symbol=BOXX) | Alpha Architect 1-3 Month Box ETF | BOXX |
+| 83 | 93 | $59.55 | [Chart](https://www.tradingview.com/chart/?symbol=RYTM) | Rhythm Pharmaceuticals, Inc. Common Stock | RYTM |
 | 82 | 93 | $35.88 | [Chart](https://www.tradingview.com/chart/?symbol=FYBR) | Frontier Communications Parent, Inc. Common Stock | FYBR |
-| 82 | 92 | $53.87 | [Chart](https://www.tradingview.com/chart/?symbol=IGF) | iShares Global Infrastructure ETF | IGF |
-| 81 | 91 | $22.48 | [Chart](https://www.tradingview.com/chart/?symbol=PYCR) | Paycor HCM, Inc. Common Stock | PYCR |
+| 82 | 92 | $53.81 | [Chart](https://www.tradingview.com/chart/?symbol=IGF) | iShares Global Infrastructure ETF | IGF |
+| 81 | 92 | $37.36 | [Chart](https://www.tradingview.com/chart/?symbol=AB) | AllianceBernstein Holding, L.P. | AB |
+| 81 | 91 | $22.49 | [Chart](https://www.tradingview.com/chart/?symbol=PYCR) | Paycor HCM, Inc. Common Stock | PYCR |
 
 ---
 
 
 ## **Sell Recommendations**
 
-The following 47 stocks show deteriorating relative strength:
+The following 43 stocks show deteriorating relative strength:
 
 | RS Rating | Sell Score | Current Price | Chart | Name | Ticker |
 |-----------|------------|---------------|-------|------|--------|
-| 1 | 100 | $66.51 | [Chart](https://www.tradingview.com/chart/?symbol=PI) | Impinj, Inc. Common Stock | PI |
-| 3 | 100 | $18.88 | [Chart](https://www.tradingview.com/chart/?symbol=DJT) | Trump Media & Technology Group Corp. Common Stock | DJT |
-| 4 | 100 | $34.07 | [Chart](https://www.tradingview.com/chart/?symbol=HELE) | Helen Of Troy Ltd | HELE |
-| 5 | 100 | $11.57 | [Chart](https://www.tradingview.com/chart/?symbol=GCT) | GigaCloud Technology Inc Class A Ordinary Shares | GCT |
+| 1 | 100 | $66.77 | [Chart](https://www.tradingview.com/chart/?symbol=PI) | Impinj, Inc. Common Stock | PI |
+| 3 | 100 | $18.89 | [Chart](https://www.tradingview.com/chart/?symbol=DJT) | Trump Media & Technology Group Corp. Common Stock | DJT |
+| 5 | 100 | $11.70 | [Chart](https://www.tradingview.com/chart/?symbol=GCT) | GigaCloud Technology Inc Class A Ordinary Shares | GCT |
 | 6 | 100 | $10.10 | [Chart](https://www.tradingview.com/chart/?symbol=CGEM) | Cullinan Therapeutics, Inc. Common Stock | CGEM |
-| 11 | 100 | $43.09 | [Chart](https://www.tradingview.com/chart/?symbol=EDU) | New Oriental Education and Technology Group, Inc. American Depositary Shares (each representing ten (10) Common Shares) | EDU |
+| 11 | 100 | $43.03 | [Chart](https://www.tradingview.com/chart/?symbol=EDU) | New Oriental Education and Technology Group, Inc. American Depositary Shares (each representing ten (10) Common Shares) | EDU |
 | 12 | 100 | $27.24 | [Chart](https://www.tradingview.com/chart/?symbol=SRDX) | Surmodics, Inc. Common Stock | SRDX |
-| 13 | 98 | $19.37 | [Chart](https://www.tradingview.com/chart/?symbol=ST) | Sensata Technologies Holding plc | ST |
+| 14 | 96 | $19.57 | [Chart](https://www.tradingview.com/chart/?symbol=ST) | Sensata Technologies Holding plc | ST |
 | 14 | 95 | $11.78 | [Chart](https://www.tradingview.com/chart/?symbol=AEYE) | AudioEye, Inc. Common Stock | AEYE |
-| 14 | 94 | $18.82 | [Chart](https://www.tradingview.com/chart/?symbol=HZO) | MarineMax, Inc. | HZO |
-| 12 | 93 | $59.99 | [Chart](https://www.tradingview.com/chart/?symbol=ASGN) | ASGN Incorporated | ASGN |
-| 17 | 93 | $51.68 | [Chart](https://www.tradingview.com/chart/?symbol=ENPH) | Enphase Energy, Inc. | ENPH |
+| 13 | 94 | $18.86 | [Chart](https://www.tradingview.com/chart/?symbol=HZO) | MarineMax, Inc. | HZO |
 | 24 | 93 | $10.03 | [Chart](https://www.tradingview.com/chart/?symbol=MTAL) | MAC Copper Limited | MTAL |
-| 18 | 92 | $51.28 | [Chart](https://www.tradingview.com/chart/?symbol=CNMD) | CONMED Corporation | CNMD |
+| 17 | 92 | $51.89 | [Chart](https://www.tradingview.com/chart/?symbol=ENPH) | Enphase Energy, Inc. | ENPH |
 | 15 | 91 | $10.24 | [Chart](https://www.tradingview.com/chart/?symbol=EXPI) | eXp World Holdings, Inc. Common Stock | EXPI |
-| 16 | 90 | $49.20 | [Chart](https://www.tradingview.com/chart/?symbol=RHI) | Robert Half Inc. | RHI |
-| 12 | 89 | $12.47 | [Chart](https://www.tradingview.com/chart/?symbol=MARA) | MARA Holdings, Inc. Common Stock | MARA |
+| 18 | 91 | $51.73 | [Chart](https://www.tradingview.com/chart/?symbol=CNMD) | CONMED Corporation | CNMD |
 | 12 | 89 | $10.01 | [Chart](https://www.tradingview.com/chart/?symbol=VYX) | NCR Voyix Corporation | VYX |
-| 17 | 89 | $332.24 | [Chart](https://www.tradingview.com/chart/?symbol=SAIA) | Saia, Inc. | SAIA |
-| 31 | 88 | $12.89 | [Chart](https://www.tradingview.com/chart/?symbol=MED) | Medifast, Inc. | MED |
+| 16 | 89 | $49.41 | [Chart](https://www.tradingview.com/chart/?symbol=RHI) | Robert Half Inc. | RHI |
+| 17 | 89 | $330.37 | [Chart](https://www.tradingview.com/chart/?symbol=SAIA) | Saia, Inc. | SAIA |
+| 26 | 89 | $13.61 | [Chart](https://www.tradingview.com/chart/?symbol=FXN) | First Trust Energy AlphaDEX Fund | FXN |
+| 29 | 89 | $12.71 | [Chart](https://www.tradingview.com/chart/?symbol=MED) | Medifast, Inc. | MED |
 | 14 | 87 | $10.31 | [Chart](https://www.tradingview.com/chart/?symbol=VREX) | Varex Imaging Corporation Common Stock | VREX |
-| 28 | 87 | $13.65 | [Chart](https://www.tradingview.com/chart/?symbol=FXN) | First Trust Energy AlphaDEX Fund | FXN |
 | 21 | 86 | $10.49 | [Chart](https://www.tradingview.com/chart/?symbol=PEB) | Pebblebrook Hotel Trust | PEB |
-| 21 | 86 | $22.31 | [Chart](https://www.tradingview.com/chart/?symbol=HOG) | Harley-Davidson, Inc. | HOG |
 | 20 | 85 | $11.34 | [Chart](https://www.tradingview.com/chart/?symbol=HPK) | HighPeak Energy, Inc. Common Stock | HPK |
-| 16 | 84 | $111.89 | [Chart](https://www.tradingview.com/chart/?symbol=MYRG) | MYR Group, Inc. | MYRG |
+| 18 | 84 | $111.86 | [Chart](https://www.tradingview.com/chart/?symbol=MYRG) | MYR Group, Inc. | MYRG |
 | 19 | 84 | $10.15 | [Chart](https://www.tradingview.com/chart/?symbol=HLIT) | Harmonic Inc | HLIT |
 | 28 | 84 | $10.11 | [Chart](https://www.tradingview.com/chart/?symbol=CELC) | Celcuity Inc. Common Stock | CELC |
 | 24 | 83 | $10.04 | [Chart](https://www.tradingview.com/chart/?symbol=HTLD) | Heartland Express Inc | HTLD |
-| 21 | 82 | $17.12 | [Chart](https://www.tradingview.com/chart/?symbol=IART) | Integra LifeSciences Holdings | IART |
-| 26 | 80 | $11.36 | [Chart](https://www.tradingview.com/chart/?symbol=RIVN) | Rivian Automotive, Inc. Class A Common Stock | RIVN |
+| 20 | 82 | $16.99 | [Chart](https://www.tradingview.com/chart/?symbol=IART) | Integra LifeSciences Holdings | IART |
 | 30 | 80 | $10.71 | [Chart](https://www.tradingview.com/chart/?symbol=DBRG) | DigitalBridge Group, Inc. | DBRG |
-| 32 | 80 | $76.72 | [Chart](https://www.tradingview.com/chart/?symbol=LEA) | Lear Corporation | LEA |
 | 24 | 79 | $10.26 | [Chart](https://www.tradingview.com/chart/?symbol=PACS) | PACS Group, Inc. | PACS |
-| 26 | 79 | $51.87 | [Chart](https://www.tradingview.com/chart/?symbol=HXL) | Hexcel Corporation | HXL |
-| 28 | 78 | $10.75 | [Chart](https://www.tradingview.com/chart/?symbol=CMP) | Compass Minerals International, Inc. | CMP |
-| 28 | 77 | $13.68 | [Chart](https://www.tradingview.com/chart/?symbol=MANU) | MANCHESTER UNITED PLC | MANU |
-| 31 | 77 | $56.15 | [Chart](https://www.tradingview.com/chart/?symbol=BMRN) | BioMarin Pharmaceuticals Inc | BMRN |
+| 26 | 78 | $51.88 | [Chart](https://www.tradingview.com/chart/?symbol=HXL) | Hexcel Corporation | HXL |
+| 27 | 78 | $13.68 | [Chart](https://www.tradingview.com/chart/?symbol=MANU) | MANCHESTER UNITED PLC | MANU |
+| 28 | 78 | $11.47 | [Chart](https://www.tradingview.com/chart/?symbol=RIVN) | Rivian Automotive, Inc. Class A Common Stock | RIVN |
+| 33 | 78 | $77.37 | [Chart](https://www.tradingview.com/chart/?symbol=LEA) | Lear Corporation | LEA |
+| 28 | 77 | $10.74 | [Chart](https://www.tradingview.com/chart/?symbol=CMP) | Compass Minerals International, Inc. | CMP |
 | 36 | 75 | $10.30 | [Chart](https://www.tradingview.com/chart/?symbol=CSTM) | Constellium SE Class A Ordinary shares | CSTM |
-| 35 | 73 | $11.02 | [Chart](https://www.tradingview.com/chart/?symbol=NAVI) | Navient Corporation | NAVI |
-| 31 | 72 | $105.37 | [Chart](https://www.tradingview.com/chart/?symbol=MHO) | M/I Homes, Inc. | MHO |
+| 33 | 73 | $56.82 | [Chart](https://www.tradingview.com/chart/?symbol=BMRN) | BioMarin Pharmaceuticals Inc | BMRN |
 | 33 | 72 | $10.34 | [Chart](https://www.tradingview.com/chart/?symbol=CMRE) | Costamare Inc. | CMRE |
-| 31 | 71 | $29.17 | [Chart](https://www.tradingview.com/chart/?symbol=TPH) | Tri Pointe Homes, Inc. | TPH |
-| 36 | 71 | $10.86 | [Chart](https://www.tradingview.com/chart/?symbol=LBTYK) | Liberty Global Ltd. Class C Common Shares | LBTYK |
-| 32 | 70 | $24.96 | [Chart](https://www.tradingview.com/chart/?symbol=RAMP) | LiveRamp Holdings, Inc. Common Stock | RAMP |
-| 39 | 68 | $23.84 | [Chart](https://www.tradingview.com/chart/?symbol=AMRK) | A-Mark Precious Metals, Inc. | AMRK |
-| 37 | 66 | $152.40 | [Chart](https://www.tradingview.com/chart/?symbol=ODFL) | Old Dominion Freight Line | ODFL |
+| 35 | 72 | $11.01 | [Chart](https://www.tradingview.com/chart/?symbol=NAVI) | Navient Corporation | NAVI |
+| 32 | 69 | $24.98 | [Chart](https://www.tradingview.com/chart/?symbol=RAMP) | LiveRamp Holdings, Inc. Common Stock | RAMP |
+| 33 | 69 | $106.52 | [Chart](https://www.tradingview.com/chart/?symbol=MHO) | M/I Homes, Inc. | MHO |
+| 35 | 69 | $10.81 | [Chart](https://www.tradingview.com/chart/?symbol=LBTYK) | Liberty Global Ltd. Class C Common Shares | LBTYK |
+| 39 | 67 | $23.82 | [Chart](https://www.tradingview.com/chart/?symbol=AMRK) | A-Mark Precious Metals, Inc. | AMRK |
+| 37 | 65 | $152.23 | [Chart](https://www.tradingview.com/chart/?symbol=ODFL) | Old Dominion Freight Line | ODFL |
+| 39 | 64 | $49.76 | [Chart](https://www.tradingview.com/chart/?symbol=CMG) | Chipotle Mexican Grill, Inc. | CMG |
 
 ## **Methodology**
 
